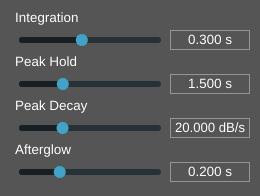
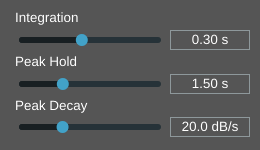
Revert Afterglow to a fixed default, remove it from Settings
Tried as a user-adjustable parameter; after trying it, it did not
give the desired look (separately from the performance issue already
found and fixed for it). Removed:

- g_paramAfterglow and its registration in addParameter()
- StereoAnalyzerGUI's polling Timer (m_afterglowParam, m_lastAfterglow,
  timerCallback()) that pushed parameter changes to the goniometer
- The Afterglow row in SettingsPanel (back to 3 rows, height 150)

Kept: GoniometerComponent::setAfterglowTime() and the sample-rate-
correct time-to-point-count conversion (still better than the old
fixed point count), now just called once with a fixed
kGoniometerAfterglowSeconds = 0.2s from StereoAnalyzerGUI's
constructor instead of from a parameter. Also kept the paint() cost
fix from the previous commit (capped, decimated point drawing) --
that bounds cost for whatever fixed value is in use, not just for a
user-adjustable one, and remains necessary since even 0.2s can reach
several thousand points under continuous audio.

Regenerated docs/algorithms/img/settings_panel.png (3 rows) and
rewrote the affected docs sections as a "tried, then reverted" record
rather than deleting the history of why the code looks this way.

pluginval --strictness-level 10 stays clean.

diff --git a/StereoAnalyzer/StereoAnalyzer.h b/StereoAnalyzer/StereoAnalyzer.h
@@ -53,20 +53,10 @@ const struct
 }g_paramPeakDecay;
 
 // How long a goniometer point stays visible before it fades out ("phosphor"
-// persistence). GUI-only: read by StereoAnalyzerGUI, not by StereoAnalyzerAudio, since
-// it never affects the meter engine, only how many of GoniometerComponent's already-
-// pushed points are drawn.
-const struct
-{
-	const std::string ID = "afterglow";
-	const std::string name = "Afterglow";
-	const std::string unitName = "s";
-	const float minValue = 0.05f;
-	const float maxValue = 2.0f;
-	const float defaultValue = 0.2f;
-	const float skew = 0.5f; // biases the slider towards the shorter, more commonly used times
-	const int numDecimalPlaces = 2;
-}g_paramAfterglow;
+// persistence). Tried as a user-adjustable Settings parameter; after trying it, that
+// turned out not to give the desired look, so it is a fixed default instead -- see
+// GoniometerComponent::setAfterglowTime() and StereoAnalyzerGUI's constructor.
+constexpr float kGoniometerAfterglowSeconds = 0.2f;
 
 
 class StereoAnalyzerAudio : public SynchronBlockProcessor
@@ -99,7 +89,7 @@ private:
     float m_lastPeakDecay = -1.0f;
 };
 
-class StereoAnalyzerGUI : public juce::Component, private juce::Timer
+class StereoAnalyzerGUI : public juce::Component
 {
 public:
 	StereoAnalyzerGUI(StereoAnalyzerAudioProcessor& p, juce::AudioProcessorValueTreeState& apvts);
@@ -108,11 +98,6 @@ public:
 	void resized() override;
 private:
     void showSettings();
-    // polls the Afterglow parameter and pushes it to m_goniometer on change, so a
-    // change from the Settings popup or from host automation is picked up either way
-    // (the same poll-and-apply-on-change pattern StereoAnalyzerAudio uses for its own
-    // three parameters, just on the GUI thread and only for this GUI-only setting)
-    void timerCallback() override;
 
 	StereoAnalyzerAudioProcessor& m_processor;
     juce::AudioProcessorValueTreeState& m_apvts;
@@ -121,7 +106,4 @@ private:
     CorrelationMeterComponent m_correlationMeter;
     LevelMeterComponent m_levelMeter;
     juce::TextButton m_settingsButton { "Settings..." };
-
-    juce::AudioParameterFloat* m_afterglowParam = nullptr;
-    float m_lastAfterglow = -1.0f;
 };

diff --git a/StereoAnalyzer/SettingsPanel.h b/StereoAnalyzer/SettingsPanel.h
@@ -1,11 +1,13 @@
 /**
  * @file SettingsPanel.h
  * @brief Content of the Settings popup (shown in a juce::CallOutBox from the main GUI's
- *        "Settings..." button): the settings that don't need to be on the main view --
- *        RMS/correlation integration time, peak hold time, peak decay rate, and the
- *        goniometer's afterglow time. See StereoAnalyzer.h for the parameter
- *        definitions (g_paramIntegration, g_paramPeakHold, g_paramPeakDecay,
- *        g_paramAfterglow) and StereoMeterState.h/GoniometerComponent.h for what they do.
+ *        "Settings..." button): the three meter ballistics that don't need to be on the
+ *        main view -- RMS/correlation integration time, peak hold time, peak decay
+ *        rate. See StereoAnalyzer.h for the parameter definitions (g_paramIntegration,
+ *        g_paramPeakHold, g_paramPeakDecay) and StereoMeterState.h for what they do.
+ *        (The goniometer's afterglow time was tried here too; after trying it, it did
+ *        not give the desired look, so it is a fixed default instead -- see
+ *        kGoniometerAfterglowSeconds in StereoAnalyzer.h.)
  *
  * (c) J. Bitzer, Jade HS, MIT license
  */
@@ -21,7 +23,7 @@ public:
     void resized() override;
 
     static constexpr int width = 260;
-    static constexpr int height = 196; // 4 rows * kRowHeight(44) + 2 * kPadding(10), see .cpp
+    static constexpr int height = 150; // 3 rows * kRowHeight(44) + 2 * kPadding(10), see .cpp
 
 private:
     using SliderAttachment = juce::AudioProcessorValueTreeState::SliderAttachment;
@@ -36,7 +38,7 @@ private:
     void setUpRow(Row& row, juce::AudioProcessorValueTreeState& apvts, const juce::String& paramID,
                   const juce::String& labelText, const juce::String& unit);
 
-    Row m_integrationRow, m_peakHoldRow, m_peakDecayRow, m_afterglowRow;
+    Row m_integrationRow, m_peakHoldRow, m_peakDecayRow;
 
     JUCE_DECLARE_NON_COPYABLE_WITH_LEAK_DETECTOR(SettingsPanel)
 };

diff --git a/StereoAnalyzer/StereoAnalyzer.cpp b/StereoAnalyzer/StereoAnalyzer.cpp
@@ -98,9 +98,6 @@ void StereoAnalyzerAudio::addParameter(std::vector<std::unique_ptr<juce::RangedA
     paramVector.push_back(makeFloatParameter(g_paramIntegration));
     paramVector.push_back(makeFloatParameter(g_paramPeakHold));
     paramVector.push_back(makeFloatParameter(g_paramPeakDecay));
-    // GUI-only (see the struct's comment in StereoAnalyzer.h), but still declared here:
-    // all parameters must be added in one place so they are saved/restored together.
-    paramVector.push_back(makeFloatParameter(g_paramAfterglow));
 }
 
 void StereoAnalyzerAudio::prepareParameter(std::unique_ptr<juce::AudioProcessorValueTreeState> &vts)
@@ -124,25 +121,8 @@ StereoAnalyzerGUI::StereoAnalyzerGUI(StereoAnalyzerAudioProcessor& p, juce::Audi
     m_settingsButton.onClick = [this] { showSettings(); };
     addAndMakeVisible(m_settingsButton);
 
-    m_afterglowParam = dynamic_cast<AudioParameterFloat*>(m_apvts.getParameter(g_paramAfterglow.ID));
-    if (m_afterglowParam != nullptr)
-    {
-        m_lastAfterglow = m_afterglowParam->get();
-        m_goniometer.setAfterglowTime(m_lastAfterglow);
-    }
-    startTimerHz(10); // a settings change need not be picked up as fast as the meters refresh
-}
-
-void StereoAnalyzerGUI::timerCallback()
-{
-    if (m_afterglowParam == nullptr)
-        return;
-    const float value = m_afterglowParam->get();
-    if (hasChanged(value, m_lastAfterglow))
-    {
-        m_goniometer.setAfterglowTime(value);
-        m_lastAfterglow = value;
-    }
+    // fixed, not user-adjustable -- see the comment on kGoniometerAfterglowSeconds
+    m_goniometer.setAfterglowTime(kGoniometerAfterglowSeconds);
 }
 
 void StereoAnalyzerGUI::showSettings()

diff --git a/StereoAnalyzer/SettingsPanel.cpp b/StereoAnalyzer/SettingsPanel.cpp
@@ -13,7 +13,6 @@ SettingsPanel::SettingsPanel(juce::AudioProcessorValueTreeState& apvts)
     setUpRow(m_integrationRow, apvts, g_paramIntegration.ID, g_paramIntegration.name, g_paramIntegration.unitName);
     setUpRow(m_peakHoldRow, apvts, g_paramPeakHold.ID, g_paramPeakHold.name, g_paramPeakHold.unitName);
     setUpRow(m_peakDecayRow, apvts, g_paramPeakDecay.ID, g_paramPeakDecay.name, g_paramPeakDecay.unitName);
-    setUpRow(m_afterglowRow, apvts, g_paramAfterglow.ID, g_paramAfterglow.name, g_paramAfterglow.unitName);
 
     setSize(width, height);
 }
@@ -38,7 +37,7 @@ void SettingsPanel::setUpRow(Row& row, juce::AudioProcessorValueTreeState& apvts
 void SettingsPanel::resized()
 {
     auto r = getLocalBounds().reduced(kPadding);
-    for (Row* row : { &m_integrationRow, &m_peakHoldRow, &m_peakDecayRow, &m_afterglowRow })
+    for (Row* row : { &m_integrationRow, &m_peakHoldRow, &m_peakDecayRow })
     {
         auto rowArea = r.removeFromTop(kRowHeight);
         row->label.setBounds(rowArea.removeFromTop(kLabelHeight));

diff --git a/docs/algorithms/phase2_stereo_analyzer.md b/docs/algorithms/phase2_stereo_analyzer.md
@@ -11,10 +11,12 @@ A pass-through plugin (it never modifies the audio) with:
 - **Goniometer** (`GoniometerComponent`): Lissajous plot of S (horizontal) vs. M
   (vertical), same convention as `python/stereo_eval/report.py`'s goniometer plots, so a
   Python plot and the on-screen display can be compared directly. Points fade with age
-  ("phosphor" persistence) over a configurable **Afterglow** time (see Settings below);
-  since points arrive one per audio sample, `GoniometerComponent` converts that time to
-  a point count via `StereoMeterState::getSampleRate()`, so the visible persistence
-  duration is correct regardless of sample rate, unlike a fixed point count would be.
+  ("phosphor" persistence) over a fixed afterglow time
+  (`kGoniometerAfterglowSeconds` = 0.2 s -- tried as a user-adjustable Settings
+  parameter, see "Afterglow: tried, reverted" below for why it isn't one); since points
+  arrive one per audio sample, `GoniometerComponent` still converts that time to a point
+  count via `StereoMeterState::getSampleRate()`, so the persistence duration is correct
+  regardless of sample rate, unlike a fixed point count would be.
 - **Correlation meter** (`CorrelationMeterComponent`): −1 … +1 bar, three colour zones
   (green ≥ +0.3, amber −0.3…+0.3, red < −0.3 — a rule of thumb, not a formal standard)
   and endpoint labels ("OUT OF PHASE" / "WIDE" / "MONO").
@@ -25,18 +27,15 @@ A pass-through plugin (it never modifies the audio) with:
   width-estimate readout in dB (0 dB = M and S equal power, matches
   `stereo_eval.measures.levels()["S_minus_M_dB"]`).
 - **Settings popup** (`SettingsPanel`, opened from the main view's "Settings..." button
-  via a `juce::CallOutBox`): four continuous parameters — Integration time (the RMS and
-  correlation meters' shared time constant, 50 ms – 2 s), Peak Hold (0 – 5 s), Peak
-  Decay (3 – 60 dB/s once the hold expires), and Afterglow (the goniometer's point
-  persistence, 50 ms – 2 s). All four are ordinary `AudioParameterFloat`s (automatable,
-  saved with the plugin state), not just GUI-local settings — including Afterglow, even
-  though it never reaches `StereoAnalyzerAudio`/the audio thread at all (see "GUI-only
-  settings" below).
-
-![settings popup](img/settings_panel.png)
+  via a `juce::CallOutBox`): three continuous parameters — Integration time (the RMS and
+  correlation meters' shared time constant, 50 ms – 2 s), Peak Hold (0 – 5 s), and Peak
+  Decay (3 – 60 dB/s once the hold expires). All three are ordinary `AudioParameterFloat`s
+  (automatable, saved with the plugin state), not just GUI-local settings.
 - All three meter components share a panel chrome (border + title,
   `MeterLookAndFeel::drawPanel`) and a colour/size vocabulary (`MeterLookAndFeel.h`), so
   they read as one instrument panel rather than three independently-styled widgets.
+
+![settings popup](img/settings_panel.png)
 
 ![level meter colour zones](img/level_meter_zones.png)
 ![correlation meter colour zones](img/correlation_zones.png)
@@ -246,46 +245,57 @@ match what the offline-rendered verification predicted. Reaper's own track/maste
 (visible at the left edge of the full screenshot) confirm real audio was flowing, not
 just the plugin's internal state.
 
-## Goniometer afterglow (GUI-only settings)
+## Afterglow: tried as a Settings parameter, then reverted
 
 The goniometer's "phosphor" persistence used to be a fixed point count
 (`maxHistoryPoints = 6000`, "~130 ms at 48 kHz" per the old comment -- correct only at
-that one sample rate). Replaced with a fourth Settings parameter, **Afterglow**
-(`g_paramAfterglow`, 50 ms - 2 s, default 200 ms): `GoniometerComponent` converts it to a
-point count each `refresh()` tick via `StereoMeterState::getSampleRate()` (points arrive
-one per audio sample, so this conversion is exact, not an approximation), so the visible
-persistence duration is correct at any sample rate.
+that one sample rate). First tried as a fourth Settings parameter, **Afterglow**
+(`g_paramAfterglow`, 50 ms - 2 s): `GoniometerComponent` converted it to a point count
+each `refresh()` tick via `StereoMeterState::getSampleRate()` (points arrive one per
+audio sample, so this conversion is exact, not an approximation), so the visible
+persistence duration was correct at any sample rate.
 
-Afterglow is deliberately **not** read by `StereoAnalyzerAudio`/the audio thread at all
+Afterglow was deliberately **not** read by `StereoAnalyzerAudio`/the audio thread at all
 -- it only ever affects how many of `GoniometerComponent`'s already-received points are
-drawn, never `StereoMeterState`. It is still an ordinary `AudioParameterFloat` (declared
-in `addParameter()` alongside the other three, so it is saved/restored with the plugin
-state and automatable like them), but `StereoAnalyzerGUI` is the only thing that reads
-it: a 10 Hz `Timer` (slower than the meters' 30 Hz -- a settings change does not need to
-be picked up as fast) polls the parameter and calls `m_goniometer.setAfterglowTime()`
-only when the value actually changes, the same poll-and-apply-on-change pattern
-`StereoAnalyzerAudio::processSynchronBlock()` already used for the other three
-parameters, just on the GUI thread. This picks up a change from the Settings slider or
-from host automation the same way, without `SettingsPanel` (a separate popup, recreated
-fresh each time) needing any direct reference back to the goniometer.
+drawn, never `StereoMeterState`. It was still an ordinary `AudioParameterFloat`
+(automatable, saved with the plugin state like the other three), but `StereoAnalyzerGUI`
+was the only thing that read it: a 10 Hz `Timer` polled the parameter and called
+`m_goniometer.setAfterglowTime()` on change, the same poll-and-apply-on-change pattern
+`StereoAnalyzerAudio::processSynchronBlock()` uses for its own three parameters, just on
+the GUI thread, so a change from the Settings slider or from host automation was picked
+up either way.
+
+After trying it (following the performance fix below), it did not give the desired
+look, and the range's usefulness was already in question after that fix -- so the
+parameter, its Settings row, and the polling `Timer` were all removed again.
+`GoniometerComponent::setAfterglowTime()` and the sample-rate-correct conversion stay in
+`shared/metering/`, just called once with a fixed value
+(`kGoniometerAfterglowSeconds = 0.2 s`, chosen to match the old default) from
+`StereoAnalyzerGUI`'s constructor instead of from a parameter -- still an improvement
+over the old fixed-*point*-count approach, since the persistence duration this way stays
+correct regardless of sample rate, it just is not user-adjustable any more.
 
 ![goniometer afterglow, 0.05 s vs 0.30 s](img/goniometer_afterglow.png)
 
-Verified offline (`GoniometerComponent::paintEntireComponent()` to a PNG, no display
-needed, same technique as the colour-zone renders above): a 20 ms noise burst followed
-by 150 ms of silence, rendered with Afterglow set to 0.05 s (left) and 0.30 s (right).
-At 0.05 s the 150 ms of silence since the burst already exceeds the persistence window,
-so the burst has fully aged out -- an empty circle. At 0.30 s the full 170 ms of burst
-plus silence still fits inside the window, so the burst remains clearly visible.
-`pluginval --strictness-level 10` stays clean with the new parameter.
+(From when it was still a Settings parameter, kept as a record of what was tried:
+`GoniometerComponent::paintEntireComponent()` rendered to a PNG, no display needed, a
+20 ms noise burst followed by 150 ms of silence, at Afterglow 0.05 s (left) and 0.30 s
+(right). At 0.05 s the 150 ms of silence since the burst already exceeds the persistence
+window, so the burst has fully aged out; at 0.30 s the full 170 ms of burst plus silence
+still fits inside the window, so the burst remains visible. The point-count-vs-sample-
+rate math checked out; the parameter still did not look right once actually tried
+against real, continuous material, hence the reversal above.)
 
 ## Bug found and fixed: paint() cost grew unbounded with Afterglow
 
-User report after trying the feature: "increasing the afterglow time slows down the
-meter update," with a specific, well-targeted question -- CPU/Debug-build limitation, or
-a side effect of the afterglow change itself? The verification above only ever used
-short bursts (170 ms total), never exercised anywhere near the parameter's actual 2 s
-maximum under continuous audio, so this went uncaught at the time.
+While the parameter was still user-adjustable: "increasing the afterglow time slows down
+the meter update," with a specific, well-targeted question -- CPU/Debug-build
+limitation, or a side effect of the afterglow change itself? The verification above only
+ever used short bursts (170 ms total), never exercised anywhere near the parameter's
+then-2 s maximum under continuous audio, so this went uncaught at the time. The fix
+below is unaffected by the later removal of the parameter above -- it bounds `paint()`
+cost however many points `history` holds, and that can still reach several thousand at
+the fixed 0.2 s default under continuous audio, so it remains necessary.
 
 **Measured, not guessed:** a small throwaway tool (`GoniometerComponent::
 paintEntireComponent()` timed with `std::chrono`, no display needed -- history built up
